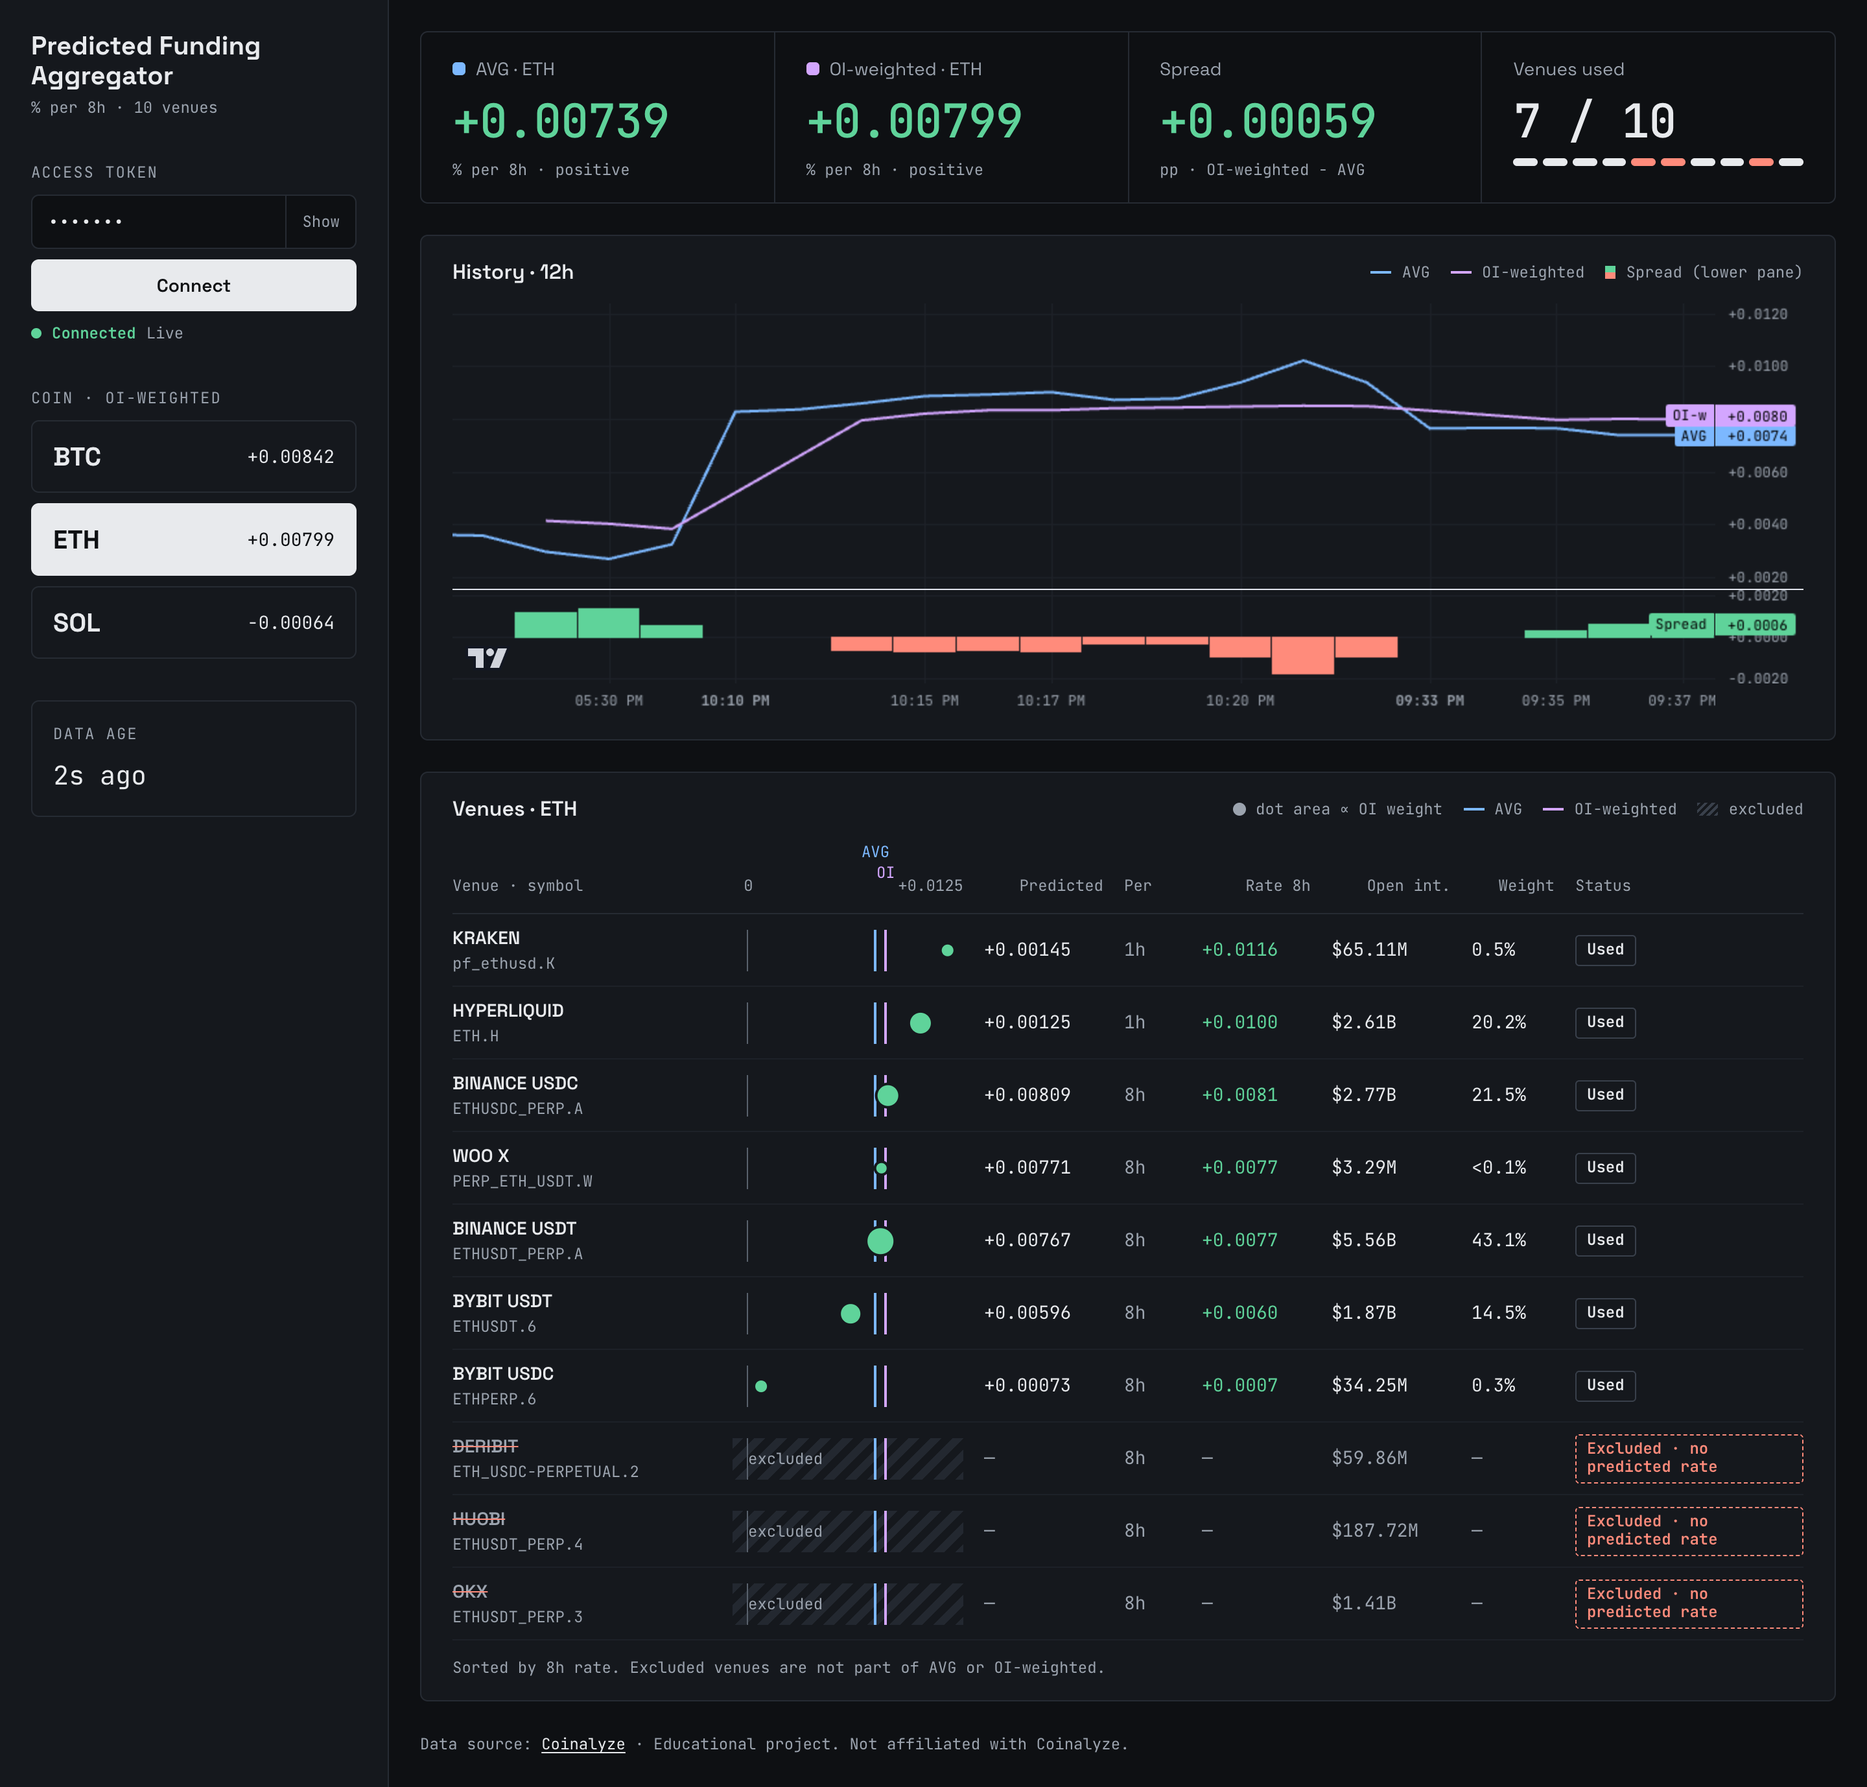
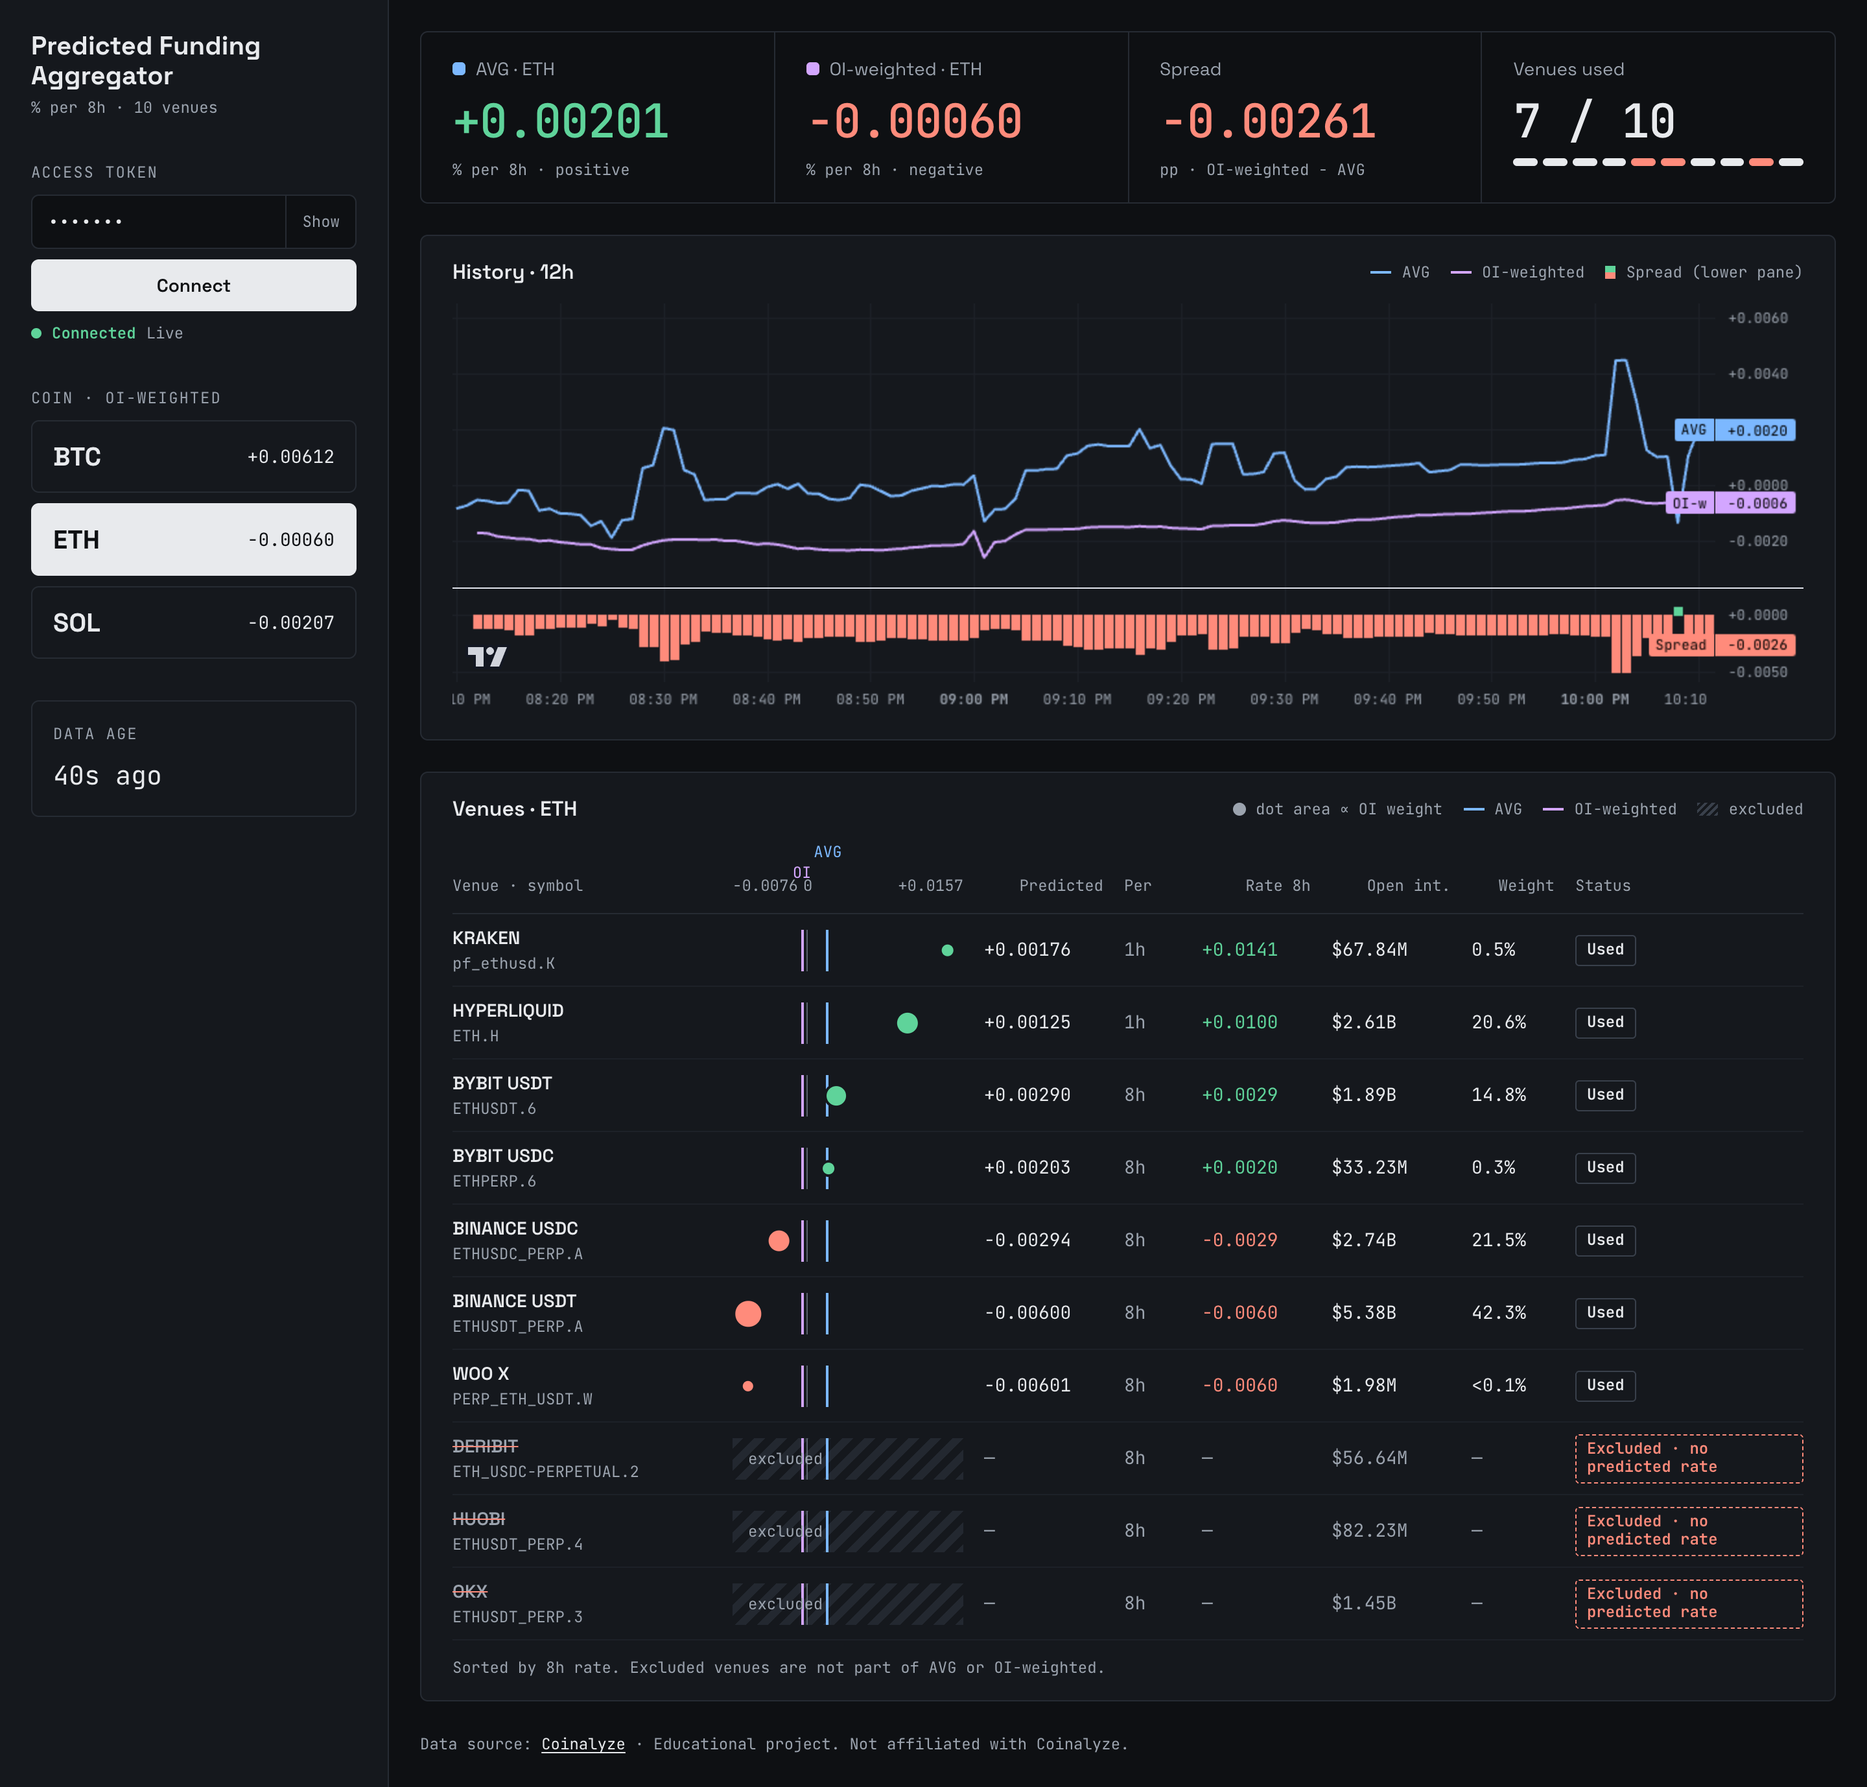
fix(dashboard): show dates on the time axis and gaps after downtime (#26)
* fix(dashboard): show dates on the time axis and gaps after downtime

* docs: refresh the dashboard screenshot

* docs: add v3.2.1 to project evolution

diff --git a/web/app.ts b/web/app.ts
@@ -1,4 +1,4 @@
-import { ColorType, createChart, CrosshairMode, HistogramSeries, LineSeries, type ISeriesApi, type LineWidth, type PriceFormatCustom, type Time, type UTCTimestamp } from "lightweight-charts";
+import { ColorType, createChart, CrosshairMode, HistogramSeries, LineSeries, TickMarkType, type ISeriesApi, type LineData, type LineWidth, type PriceFormatCustom, type Time, type UTCTimestamp, type WhitespaceData } from "lightweight-charts";
 import { isCoinSymbol, type CoinSymbol } from "../src/coins.ts";
 import { VENUES } from "../src/funding/universe.ts"; // pure module: placeholder pip count before the first snapshot
 import { CLOSE, HISTORY_LIMIT, type ClientMessage, type ServerMessage } from "../src/protocol.ts";
@@ -54,6 +54,8 @@ let intervalMs = Infinity;
 let selected: CoinSymbol = "BTC";
 const history = new Map<CoinSymbol, HistoryPoint[]>();
 const latest = new Map<CoinSymbol, Snapshot>();
+/** Three poll intervals: older data is flagged STALE, and a longer pause between points is drawn as a gap. */
+const staleAfterMs = () => 3 * intervalMs;
 
 const setStatus = (status: Status) => {
   app.dataset.conn = status.toLowerCase();
@@ -92,7 +94,7 @@ const formatAge = (ms: number) => {
 
 /** Stale beats waiting-oi, so an old snapshot is always flagged. */
 const dataState = (s: Snapshot | undefined): DataState =>
-  !s ? "waiting-data" : Date.now() - s.timestamp > 3 * intervalMs ? "stale" : s.oi_weighted_predicted_funding_rate === null ? "waiting-oi" : "live";
+  !s ? "waiting-data" : Date.now() - s.timestamp > staleAfterMs() ? "stale" : s.oi_weighted_predicted_funding_rate === null ? "waiting-oi" : "live";
 
 const setMetric = (id: string, text: string, note: string | null, tone: string, waiting: boolean) => {
   const value = $<HTMLElement>(`#${id}`);
@@ -208,6 +210,9 @@ const localTime = (time: Time, withSeconds: boolean) =>
     second: withSeconds ? "2-digit" : undefined,
   });
 
+const localDate = (time: Time) =>
+  new Date((time as UTCTimestamp) * 1000).toLocaleDateString([], { month: "short", day: "numeric" });
+
 /** Design tokens from `style.css`; the chart draws on a canvas and cannot use CSS directly. */
 const cssVar = (name: string) => getComputedStyle(document.documentElement).getPropertyValue(name).trim();
 const px = (name: string) => Number.parseInt(cssVar(name), 10);
@@ -222,9 +227,15 @@ const chart = createChart($<HTMLDivElement>("#chart"), {
   },
   grid: { vertLines: { color: cssVar("--chart-grid") }, horzLines: { color: cssVar("--chart-grid") } },
   rightPriceScale: { borderVisible: false },
-  timeScale: { borderVisible: false, timeVisible: true, secondsVisible: false, tickMarkFormatter: (t: Time) => localTime(t, false) },
+  timeScale: {
+    borderVisible: false,
+    timeVisible: true,
+    secondsVisible: false,
+    // The library picks the tick type by UTC day; the label shows that point's local date.
+    tickMarkFormatter: (t: Time, type: TickMarkType) => (type === TickMarkType.Time || type === TickMarkType.TimeWithSeconds ? localTime(t, false) : localDate(t)),
+  },
   crosshair: { mode: CrosshairMode.Normal },
-  localization: { timeFormatter: (t: Time) => localTime(t, true) },
+  localization: { timeFormatter: (t: Time) => `${localDate(t)} ${localTime(t, true)}` },
 });
 
 // Canvas text does not redraw when the web font arrives.
@@ -263,14 +274,34 @@ const tracks: Track[] = [
 ];
 chart.panes()[1]?.setHeight(px("--chart-spread-pane"));
 
-/** One point per second (last value wins), ascending, as lightweight-charts requires. */
-const toPoints = (points: HistoryPoint[], pick: Track["pick"]) => {
-  const bySecond = new Map<number, number>();
+type ChartPoint = LineData<UTCTimestamp> | WhitespaceData<UTCTimestamp>;
+
+/**
+ * One point per second (last value wins), ascending, as lightweight-charts requires. After any pause longer than
+ * staleAfterMs() a whitespace point marks the gap on the index-based time scale, and the last valued point before it
+ * is transparent: a line series skips whitespace and strokes segment i-1 → i in item i-1's colour, so that hides the
+ * segment joining across the downtime. Gaps are detected from every point, including ones `pick` skips, so all
+ * tracks break together.
+ */
+const toPoints = (points: HistoryPoint[], pick: Track["pick"]): ChartPoint[] => {
+  const bySecond = new Map<number, ChartPoint>();
+  let prev: number | undefined;
+  let lastValued: LineData<UTCTimestamp> | undefined;
   for (const p of [...points].sort((a, b) => a.timestamp - b.timestamp)) {
+    const time = Math.floor(p.timestamp / 1000) as UTCTimestamp;
+    if (prev !== undefined && p.timestamp - prev > staleAfterMs()) {
+      const gap = (Math.floor(prev / 1000) + 1) as UTCTimestamp;
+      if (gap < time) bySecond.set(gap, { time: gap });
+      if (lastValued !== undefined) lastValued.color = "transparent";
+    }
+    prev = p.timestamp;
     const value = pick(p);
-    if (value !== null) bySecond.set(Math.floor(p.timestamp / 1000), value);
+    if (value !== null) {
+      lastValued = { time, value };
+      bySecond.set(time, lastValued);
+    }
   }
-  return [...bySecond].map(([time, value]) => ({ time: time as UTCTimestamp, value }));
+  return [...bySecond.values()];
 };
 
 const rebuildChart = () => {
@@ -278,13 +309,19 @@ const rebuildChart = () => {
   for (const track of tracks) {
     const data = toPoints(points, track.pick);
     const { tint } = track;
-    track.series.setData(tint === undefined ? data : data.map((d) => ({ ...d, color: tint(d.value) })));
+    track.series.setData(tint === undefined ? data : data.map((d) => ("value" in d ? { ...d, color: tint(d.value) } : d)));
     track.lastTime = data.at(-1)?.time ?? 0;
   }
   chart.timeScale().fitContent();
 };
 
 const pushPoint = (p: HistoryPoint) => {
+  // `p` is already recorded; after a pause longer than staleAfterMs() redraw everything so the gap whitespace is inserted.
+  const prev = history.get(p.symbol)?.at(-2);
+  if (prev !== undefined && p.timestamp - prev.timestamp > staleAfterMs()) {
+    rebuildChart();
+    return;
+  }
   const time = Math.floor(p.timestamp / 1000);
   for (const track of tracks) {
     const value = track.pick(p);

diff --git a/CLAUDE.md b/CLAUDE.md
@@ -43,7 +43,7 @@ Runtime modes:
 | `src/funding/aggregate.ts` | `aggregate()` (pure AVG + OI-weighted). |
 | `src/funding/source.ts` | `FundingSource`: resolves venues against `/future-markets` (24h cache), rolling per-market OI refresh (oldest first, refetched once ≥ `OI_REFRESH_MS` old, spare budget per cycle), OI seeded from persisted snapshots, OI-weighted null until every used venue has OI, an OI failure does not block AVG, staleness filter, components, budget warning. Clock injectable. |
 | `scripts/calibrate/*` | `main.ts` (CLI), `analyze.ts` (pure: venue ratios, lag-aligned MAD, history SMA), `chart-page.ts`, `browser.ts`, `parse.ts`. |
-| `web/index.html`, `web/app.ts`, `web/style.css`, `web/fonts/` | Dashboard, "Number Line" design: sidebar with token field (Show/Hide toggle), coin buttons carrying each coin's OI-weighted value, data age; headline metrics (AVG, OI-weighted, spread, venues used + pips); AVG/OI-weighted lines over a spread histogram pane (local time, colours read from the `--chart-*` tokens); venue rows cloned from `#venue-row` as dots on a shared rate axis (dot area ∝ OI weight, AVG/OI markers, sorted by 8h rate, excluded hatched; cards below 1100 px). CSS keys every state on `#app[data-conn]` (`disconnected`/`connecting`/`connected`/`rejected`) and `#app[data-data]` (`waiting-data`/`waiting-oi`/`live`/`stale`; stale beats waiting-oi); `.v[data-status]` carries the wire value `unlisted`, not the export fixture's `not_listed`. `index.html` = the export's markup minus Google Fonts, plus `./style.css`, `./app.ts` and the `#history-window` span. `style.css` = JetBrains Mono + Space Grotesk `@font-face` rules + a `[hidden]` rule (`hidden` must beat `.coin { display: flex }`) + the export's `styles.css` minus its states-board section. Reference renderer: `design/handoff/number-line/app.js`. Bun HTML import (inlines the fonts as `data:` URIs), `lightweight-charts` v5. The previous "Ledger" dashboard is archived at tag `v3.1.0` (restore command in the README). |
+| `web/index.html`, `web/app.ts`, `web/style.css`, `web/fonts/` | Dashboard, "Number Line" design: sidebar with token field (Show/Hide toggle), coin buttons carrying each coin's OI-weighted value, data age; headline metrics (AVG, OI-weighted, spread, venues used + pips); AVG/OI-weighted lines over a spread histogram pane (local time with the date at day changes, a whitespace gap where consecutive points are more than 3 intervals apart, colours read from the `--chart-*` tokens); venue rows cloned from `#venue-row` as dots on a shared rate axis (dot area ∝ OI weight, AVG/OI markers, sorted by 8h rate, excluded hatched; cards below 1100 px). CSS keys every state on `#app[data-conn]` (`disconnected`/`connecting`/`connected`/`rejected`) and `#app[data-data]` (`waiting-data`/`waiting-oi`/`live`/`stale`; stale beats waiting-oi); `.v[data-status]` carries the wire value `unlisted`, not the export fixture's `not_listed`. `index.html` = the export's markup minus Google Fonts, plus `./style.css`, `./app.ts` and the `#history-window` span. `style.css` = JetBrains Mono + Space Grotesk `@font-face` rules + a `[hidden]` rule (`hidden` must beat `.coin { display: flex }`) + the export's `styles.css` minus its states-board section. Reference renderer: `design/handoff/number-line/app.js`. Bun HTML import (inlines the fonts as `data:` URIs), `lightweight-charts` v5. The previous "Ledger" dashboard is archived at tag `v3.1.0` (restore command in the README). |
 | `design/handoff/` | Claude Design reference exports, each with `screens/`, not imported by `web/` and excluded from the Docker image. `number-line/` (current): `index.html?state=…` and `states.html` render every state offline from `data.js`; `app.js` is the reference renderer. `ledger/` (v3.1, archived): DOM contract in `ledger/README.md`. |
 | `test/*.test.ts` | `bun:test`; no network, no browser. |
 | `Dockerfile`, `docker-compose.yml` | Pinned `oven/bun:1.4.3-debian`, production deps only (~240 MB), non-root, healthcheck; compose adds the `data` volume and `init`. |
@@ -119,6 +119,8 @@ v3.0 (tagged `v3.0.0` on `a8b21e8`, the #20 squash commit):
 v3.1 (PR #22, squash-merged as `9b980be` and tagged `v3.1.0`): the dashboard implements the Claude Design "Ledger" direction. `web/` takes the export's markup and stylesheet verbatim plus self-hosted IBM Plex fonts. `app.ts` keeps the WebSocket and chart logic, renders through the export's DOM contract (`data-*`/ARIA attributes), marks Per 8h values more than 1σ from AVG and draws step lines coloured from the CSS tokens. The unedited export and its reference screens are committed in `design/handoff/` and kept out of the Docker image.
 
 v3.2 (PR #24, squash-merged as `282841f` and tagged `v3.2.0`): the dashboard implements the Claude Design "Number Line" direction. `web/` takes the export's markup (Google Fonts links dropped, local stylesheet and script, a `#history-window` span) and its stylesheet minus the states board, plus self-hosted JetBrains Mono and Space Grotesk. `app.ts` keeps the WebSocket, history and reconnect logic and renders the `#app[data-conn]`/`[data-data]` states, venues as dots on a shared rate axis (area ∝ OI weight) and a spread histogram pane. The default coin is BTC. Ledger is archived at `v3.1.0` (restore command in the README); both exports live in `design/handoff/number-line/` and `design/handoff/ledger/`.
+
+v3.2.1 (PR #26, tagged `v3.2.1`): the dashboard chart's time axis shows the date where the day changes (the crosshair label too), and a pause longer than three poll intervals leaves a gap instead of a joined line, as the README already described. The README screenshot was retaken from a continuous run.
 
 Headed mode, a separate server file, the live chart source, the `--once` mode (`bun run once`, removed in v3.0), `SOURCES`/`API_INTERVAL_MS`/`CHART_INTERVAL_MS` and "all STABLE perps" scope are historical.
 

diff --git a/README.md b/README.md
@@ -132,7 +132,7 @@ bun install
 bun run start           # dashboard on http://localhost:3000, WebSocket on /ws
 ```
 
-Open the dashboard and enter your `AUTH_TOKEN`. It is masked by default; **Show** reveals it and **Hide** masks it again. The token is kept in the browser's `localStorage`, so the page reconnects on reload. Each coin button shows that coin's OI-weighted rate. Below the chart, every venue is a dot on a shared rate axis with AVG and OI-weighted markers: the dot's area is proportional to the venue's OI weight, rows are sorted by 8h rate, and excluded venues are struck through and hatched. The chart's lower pane shows the spread (OI-weighted − AVG). The data age and every headline value get a **STALE** marker when the last snapshot is older than three poll intervals. On screens narrower than 1100 px the sidebar moves above the content and each venue becomes a card.
+Open the dashboard and enter your `AUTH_TOKEN`. It is masked by default; **Show** reveals it and **Hide** masks it again. The token is kept in the browser's `localStorage`, so the page reconnects on reload. Each coin button shows that coin's OI-weighted rate. Below the chart, every venue is a dot on a shared rate axis with AVG and OI-weighted markers: the dot's area is proportional to the venue's OI weight, rows are sorted by 8h rate, and excluded venues are struck through and hatched. The chart's lower pane shows the spread (OI-weighted − AVG). Time-axis labels show the date where the day changes. The data age and every headline value get a **STALE** marker when the last snapshot is older than three poll intervals. On screens narrower than 1100 px the sidebar moves above the content and each venue becomes a card.
 
 The previous "Ledger" dashboard (v3.1) is archived at tag `v3.1.0`; its design export is in `design/handoff/ledger/`. To switch back: `git rm -r -q web && git checkout v3.1.0 -- web`, then run `bun run typecheck`. It flags anything in `web/app.ts` that a later protocol change broke.
 
